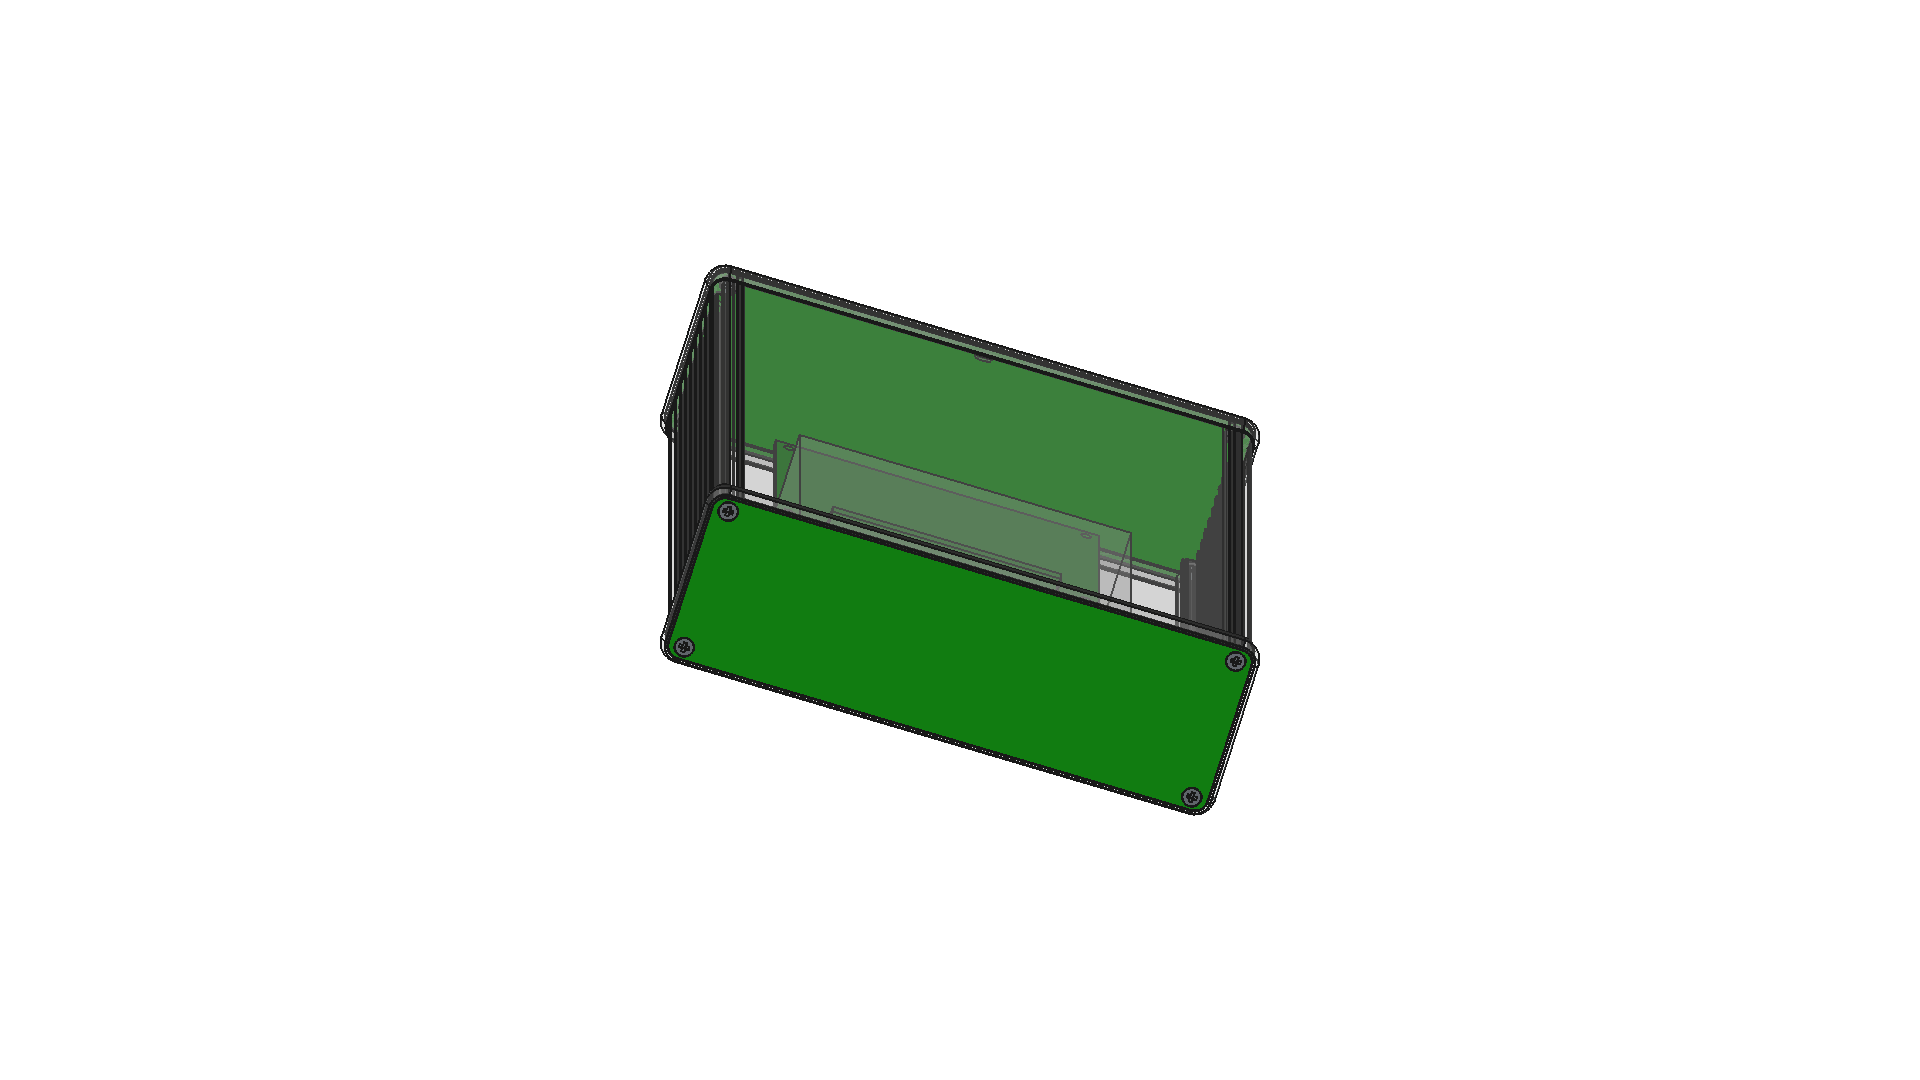
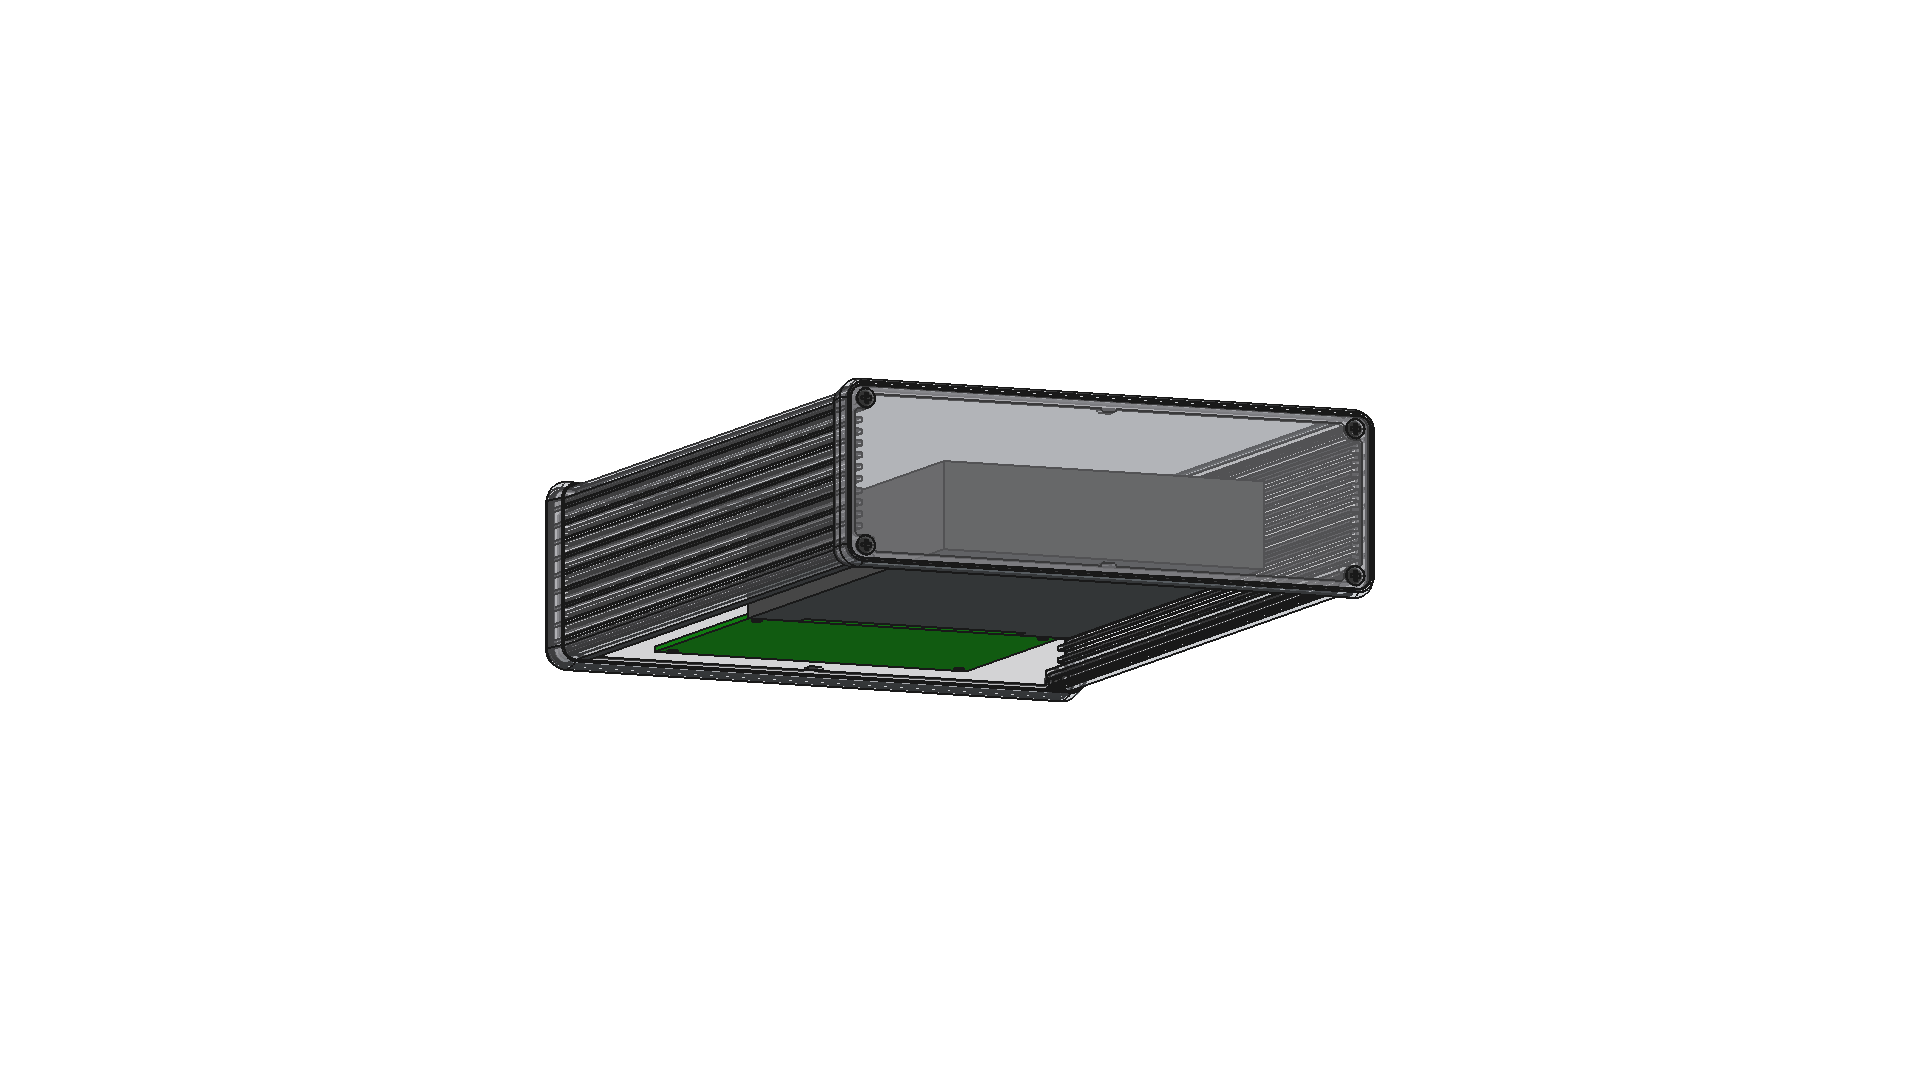
Assembly screenshot: view from below into case, proper colors

Changed region(s): [[0.2812, 0.2444, 0.7188, 0.7639]]

diff --git a/mechanical/screenshot.py b/mechanical/screenshot.py
@@ -11,29 +11,40 @@ doc = FreeCAD.newDocument("render")
 Import.insert("mechanical/assembly.step", doc.Name)
 doc.recompute()
 
-# Color parts by size (case=large=transparent, PCB=green, HDD=dark)
+# Color parts: case=silver transparent, PCB=green, HDD=dark grey
+# The assembly.step merges labels, so identify by bounding box
 for obj in doc.Objects:
-    if hasattr(obj, "Shape") and obj.Shape.Solids and hasattr(obj, "ViewObject"):
-        bb = obj.Shape.BoundBox
-        vol = bb.XLength * bb.YLength * bb.ZLength
-        try:
-            if vol > 100000:  # case parts
-                obj.ViewObject.Transparency = 80
-                obj.ViewObject.ShapeColor = (0.8, 0.8, 0.8)
-            elif bb.ZLength > 100:  # HDD (147mm along Z)
-                obj.ViewObject.ShapeColor = (0.3, 0.3, 0.3)
-            elif bb.XLength > 50:  # PCB (99mm along X)
-                obj.ViewObject.ShapeColor = (0.0, 0.6, 0.0)
-        except:
-            pass
+    if not (hasattr(obj, "Shape") and obj.Shape.Solids and hasattr(obj, "ViewObject")):
+        continue
+    bb = obj.Shape.BoundBox
+    try:
+        # PCB: ~99mm in one axis, ~1.5mm thin, ~71mm in another
+        if bb.YLength < 3 and bb.XLength > 50 and bb.ZLength > 50:
+            obj.ViewObject.ShapeColor = (0.0, 0.5, 0.0)
+            continue
+        # HDD: ~101.6 x ~26.1 x ~147
+        if bb.YLength > 20 and bb.YLength < 30 and bb.ZLength > 100:
+            obj.ViewObject.ShapeColor = (0.25, 0.25, 0.25)
+            continue
+        # Screws: small parts
+        if bb.XLength < 10 and bb.YLength < 10 and bb.ZLength < 10:
+            obj.ViewObject.ShapeColor = (0.4, 0.4, 0.4)
+            obj.ViewObject.Transparency = 60
+            continue
+        # Everything else is case
+        obj.ViewObject.ShapeColor = (0.75, 0.75, 0.78)
+        obj.ViewObject.Transparency = 75
+    except:
+        pass
 
 view = FreeCADGui.ActiveDocument.ActiveView
 
-# Set camera to show case lying flat on a table, viewed from front-top
+# Camera: look into the open bottom at an angle
+# We want to see inside — look from below-front at a 3/4 angle
 from pivy import coin
 cam = view.getCameraNode()
-rot = coin.SbRotation(coin.SbVec3f(1, 0, 0), -0.3)  # mostly from top
-rot *= coin.SbRotation(coin.SbVec3f(0, 0, 1), 0.3)   # slight rotation
+rot = coin.SbRotation(coin.SbVec3f(1, 0, 0), 0.15)   # slight tilt from below
+rot *= coin.SbRotation(coin.SbVec3f(0, 1, 0), -0.4)   # rotate to 3/4 view
 cam.orientation.setValue(rot)
 view.fitAll()
 
